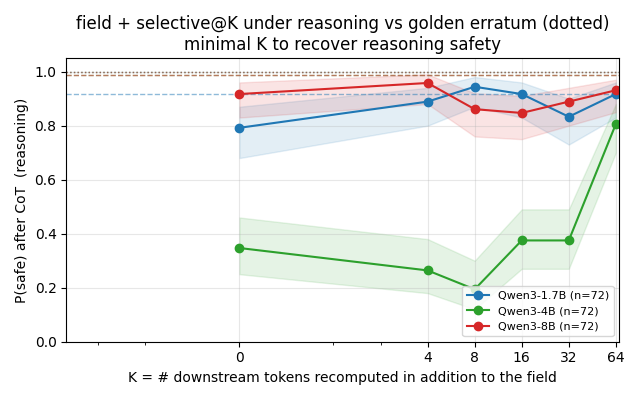
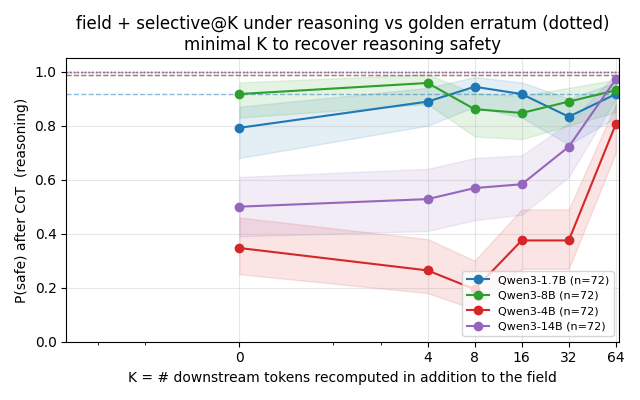
K-sweep complete (4 models, n=72): K* spans 16x across the family (4 to >64); fix figure label bug
Added Qwen3-14B (field-only 0.50 -> 0.97 at K=64, K*~64). Full family field-only reasoning recovery:
0.92(8B)/0.79(1.7B)/0.50(14B)/0.35(4B); K* to reach full reprefill ~ 4(8B)/8(1.7B)/64(14B)/>64(4B).
Two "easy" models (8B,1.7B) need small K; two "sticky" models (4B,14B) start low and climb with K --
the scale-reversal (§5.3) governs K*. Fixed make_ksweep_figure label bug ("4b" matched inside "14b").
PAPER §6.4 + fig_ksweep (4 curves). Confirms: field+selective@K useful but K NOT universal (16x
spread); erratum needs no per-model K -> robust default.

diff --git a/patchkv/esys/make_ksweep_figure.py b/patchkv/esys/make_ksweep_figure.py
@@ -8,11 +8,12 @@ import matplotlib.pyplot as plt
 R = os.path.join(os.path.dirname(__file__), "..", "results")
 F = os.path.join(os.path.dirname(__file__), "..", "figures")
 tags = sys.argv[1:] or ["qwen3_1p7b_par", "qwen3_4b_par", "qwen3_8b_par", "qwen3_14b_par"]
-names = {"1p7b": "Qwen3-1.7B", "4b": "Qwen3-4B", "8b": "Qwen3-8B", "14b": "Qwen3-14B"}
+# order matters: check longer/more-specific keys first ("14b" before "4b", which is a substring)
+names = [("1p7b", "Qwen3-1.7B"), ("14b", "Qwen3-14B"), ("4b", "Qwen3-4B"), ("8b", "Qwen3-8B")]
 
 
 def nm(tag):
-    for k, v in names.items():
+    for k, v in names:
         if k in tag:
             return v
     return tag

diff --git a/patchkv/PAPER.md b/patchkv/PAPER.md
@@ -287,9 +287,10 @@ overrides any earlier conclusion" is **1.00**, above even a full reprefill of th
 because the override adds instruction force the bare corrected value lacks. So the right recovery
 target for selective recompute is the *full-reprefill* upper bound, not the erratum. **(b) The minimal
 K is strongly model-dependent**, tracking how *sticky* the stale memoized conclusion is under CoT
-(the scale-reversal of §5.3): field-only reasoning recovery is 0.92 (8B) / 0.79 (1.7B) / **0.35 (4B)**,
-giving K\* (to reach full reprefill) ≈ **4 (8B), 8 (1.7B), >64 (4B)**. On the sticky 4B even 64
-recomputed tokens reach only 0.81. **Takeaway:** field+selective@K is an effective in-place surgical
+(the scale-reversal of §5.3): field-only reasoning recovery is 0.92 (8B) / 0.79 (1.7B) / 0.50 (14B) /
+**0.35 (4B)**, giving K\* (to reach full reprefill) ≈ **4 (8B), 8 (1.7B), ~64 (14B), >64 (4B)** — a
+16× spread across one model family. On the sticky 4B even 64 recomputed tokens reach only 0.81; 14B
+climbs monotonically to 0.97 by K=64. **Takeaway:** field+selective@K is an effective in-place surgical
 edit when the field-conditioned conclusion is not sticky (small K suffices), but K is not universal —
 it can exceed 64 on models where the CoT defers to the memoized stale conclusion. The erratum needs no
 such per-model K because it injects a fresh, emphatic statement rather than dislodging the stale